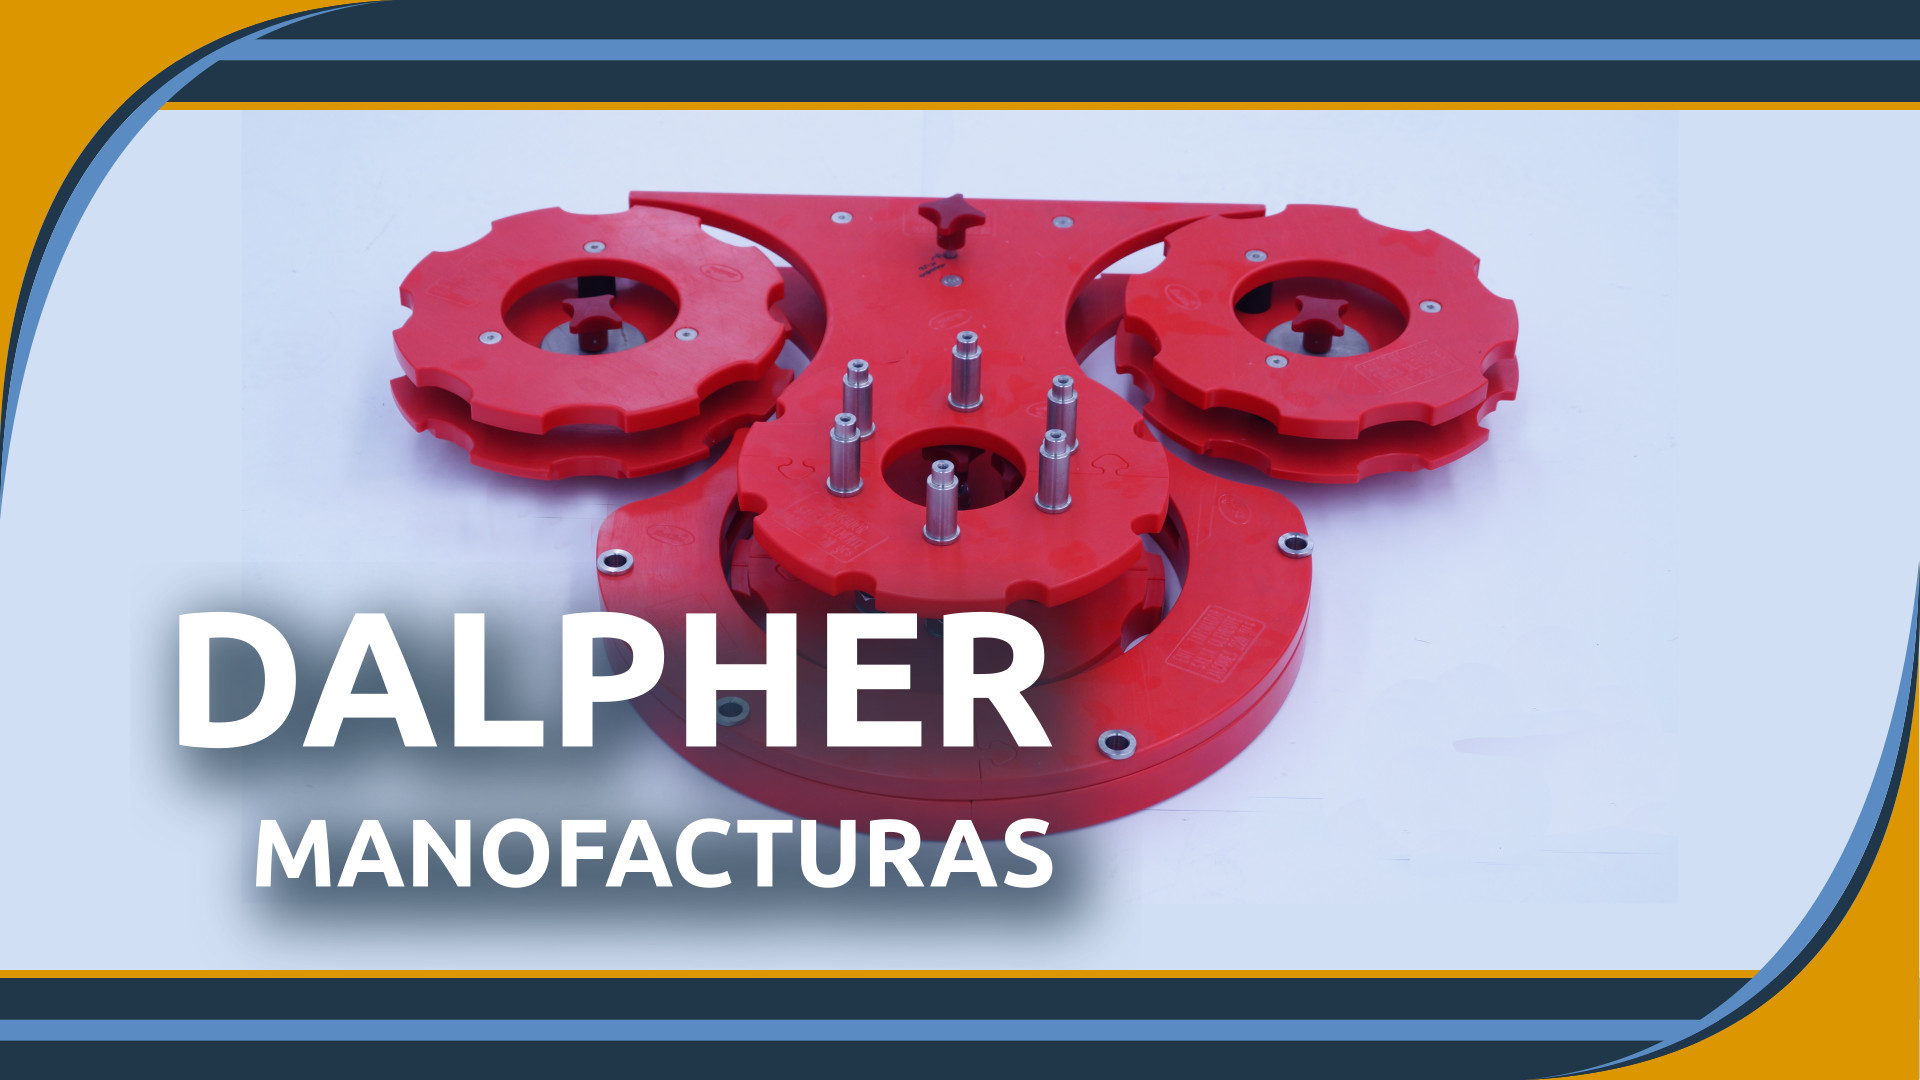
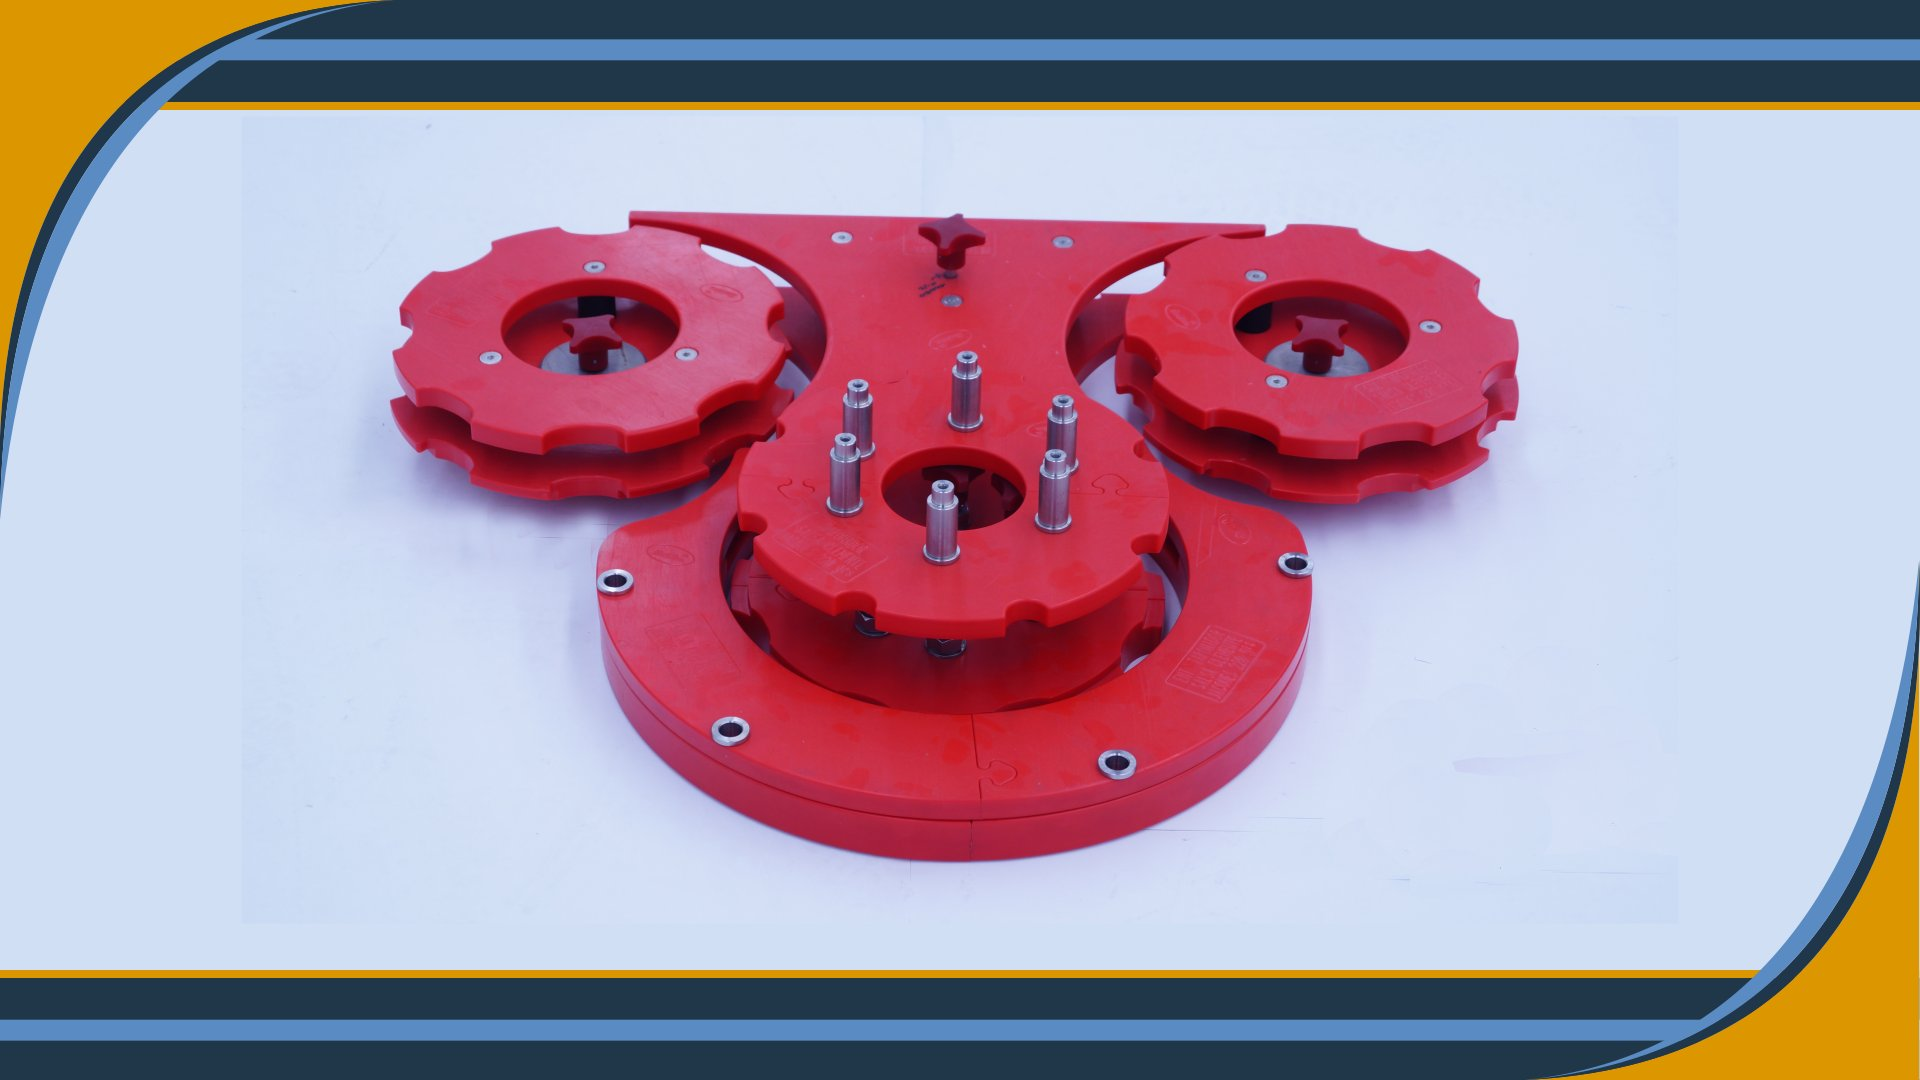
new comment added

Changed region(s): [[0.0, 0.1528, 0.9062, 0.9167], [0.0938, 0.0917, 1.0, 0.1222], [0.8125, 0.9778, 0.8438, 1.0]]

diff --git a/web/index.html b/web/index.html
@@ -19,31 +19,25 @@
           <button type="button" data-bs-target="#carouselExampleDark" data-bs-slide-to="2" aria-label="Slide 3"></button>
         </div>
         <div class="carousel-inner">
-          <div class="carousel-item active" data-bs-interval="6000">
-            <img src="src/imgs/s1.jpg" class="d-block w-100 img-fluid" alt="...">
+          <div class="carousel-item active" data-bs-interval="4000">
+            <img src="src/imgs/s1.jpg" class="d-block w-100 img-fluid" alt="DALPHER MANOFUCTURAS">
             <div class="carousel-caption d-none d-md-block">
-            <!--
-              <h5>First slide label</h5>
-              <p>Some representative placeholder content for the first slide.</p>
-            -->
+              <h5>DALPHER</h5>
+              <p>MANOFUCTURAS</p>
             </div>
           </div>
-          <div class="carousel-item" data-bs-interval="6000">
+          <div class="carousel-item" data-bs-interval="4000">
             <img src="src/imgs/s2.jpg" class="d-block w-100 img-fluid" alt="...">
-            <div class="carousel-caption d-none d-md-block">              
-            <!--
+            <div class="carousel-caption d-none d-md-block"> 
               <h5>Second slide label</h5>
               <p>Some representative placeholder content for the second slide.</p>
-            -->
             </div>
           </div>
-          <div class="carousel-item data-bs-interval="6000">
+          <div class="carousel-item" data-bs-interval="4000">
             <img src="src/imgs/s3.jpg" class="d-block w-100 img-fluid" alt="...">
             <div class="carousel-caption d-none d-md-block">
-              <!--
               <h5>Third slide label</h5>
               <p>Some representative placeholder content for the third slide.</p>
-            -->
             </div>
           </div>
         </div>
@@ -58,7 +52,7 @@
     </div>
 
 
-    <nav id="navbar-example2" class="navbar navbar-expand-lg navbar-light bg-light sticky-top">
+    <nav id="navbar-example2" class="navbar navbar-expand-lg navbar-light bg-light fixed-top">
       <div class="container-md">
         <a class="navbar-brand" href="#">DALPHER</a>
         <button class="navbar-toggler" type="button" data-bs-toggle="collapse" data-bs-target="#navbarSupportedContent" aria-controls="navbarSupportedContent" aria-expanded="false" aria-label="Toggle navigation">
@@ -111,7 +105,6 @@
         </div>
       </div>
   </nav>
-  
 
     <div data-bs-spy="scroll" data-bs-target="#navbar-example2" data-bs-offset="0" class="scrollspy-example" tabindex="0">
       <div class="container containerDivisor" id="about" >
